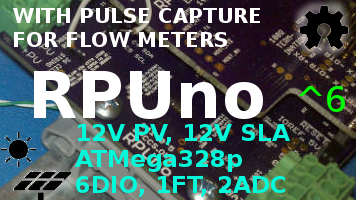
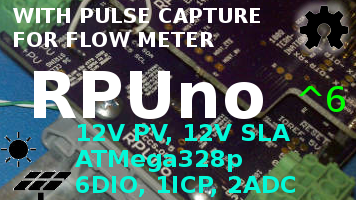
Hardware: use name icp rather than ft

Changed region(s): [[0.4944, 0.87, 0.8343, 0.99], [0.5871, 0.15, 0.6489, 0.24]]

diff --git a/readme.md b/readme.md
@@ -4,7 +4,7 @@ From <https://github.com/epccs/RPUno/>
 
 ## Overview
 
-This no frills programmable Solar Controller board has an Arduino-style header and an easy to use ATmega328p microcontroller. The embedded LT3652 solar charge controller manages power storage for a remote bare metal control and data acquisition application.
+This no frills Solar Controller board is open hardware and programmable. It has an easy to use microcontroller and Arduino-style headers. The embedded LT3652 solar charge controller manages battery charging while the ATmega328p interfaces with it (see Hardware for more details).
 
 [Store](https://www.tindie.com/products/ron-sutherland/rpuno/)
 
@@ -16,7 +16,7 @@ This no frills programmable Solar Controller board has an Arduino-style header a
 
 ## Status
 
-![Status](https://raw.githubusercontent.com/epccs/RPUno/master/Hardware/status_icon.png "Status")
+![Status](./Hardware/status_icon.png "Status")
 
 ## [Hardware](./Hardware)
 
@@ -29,11 +29,11 @@ A serial bus that allows multiple microcontroller boards to be connected to a ho
 [RPUftdi]: https://github.com/epccs/RPUftdi
 [RPUadpt]: https://github.com/epccs/RPUadpt
 
-![MultiDrop](https://raw.githubusercontent.com/epccs/RPUno/master/Hardware/Documents/MultiDrop.png "RPUno MultiDrop")
+![MultiDrop](./Hardware/Documents/MultiDrop.png "RPUno MultiDrop")
 
 Why not use plain RS485? I want the host computer to use common serial programs (e.g. avrdude, PySerial, picocom...), and the microcontroller to work with common UART control libraries (e.g. Arduino Uno core). Modbus could be used on both the host and the bare metal side but does not have firmware update tools. RS-422 (with the transceivers automatically activated) work with the common UART libraries and host programs for RS-232 so bootloaders can work as expected and so do the other serial programs (e.g. picocom and PySerial). 
 
-I prefer a Command Line Interface (CLI), so that is what the examples use. The CLI is programmed to respond to commands terminated with a newline, so remember to press enter (which sends a newline) before starting a command. The command includes an address with a leading and trailing forward slash "/". The command echo starts after the address (second byte) is sent. The first byte will cause any transmitting device to stop and dump its outgoing buffer which should prevent collisions since the echo is delayed until after the second byte. 
+I prefer a Command Line Interface (CLI), so that is what the examples use. The CLI is programmed to respond to commands terminated with a newline, so remember to press enter (which sends a newline) before starting a command. The command includes an address with a leading and trailing forward slash "/". The command echo starts after the address (second byte) is sent. The first byte ('/') will cause any transmitting device to stop and dump its outgoing buffer which should prevent collisions since the echo is delayed until after the second byte. 
 
 As a short example, I'll connect with SSH (e.g. from a Pi) to the machine (an old x86 with Ubuntu) that has a USB connection to the [RPUftdi] board. These machines have matching usernames and keys placed so I don't need to use passwords. Then I will use picocom to interact with two different RPUno boards. They are on the serial bus at addresses '1' and '0' (note that ASCII '1' is 0x31, and ASCII '0' is 0x30, so they have an address that looks good on picocom but is probably not what was expected).  
 
@@ -86,15 +86,15 @@ At present, I'm using [I2Cdebug] to set the bus manager on the [RPUftdi] shield,
 The core files for this board are in the /lib folder. Each example has its files and a Makefile in its own folder. The toolchain packages that I use are available on Ubuntu and Raspbian. 
 
 ```
-sudo apt-get install git [gcc-avr] [binutils-avr] [gdb-avr] [avr-libc] [avrdude]
+sudo apt-get install git gcc-avr binutils-avr gdb-avr avr-libc avrdude
 git clone https://github.com/epccs/RPUno
 ```
 
-[gcc-avr]: http://packages.ubuntu.com/search?keywords=gcc-avr
-[binutils-avr]: http://packages.ubuntu.com/search?keywords=binutils-avr
-[gdb-avr]: http://packages.ubuntu.com/search?keywords=gdb-avr
-[avr-libc]: http://packages.ubuntu.com/search?keywords=avr-libc
-[avrdude]: http://packages.ubuntu.com/search?keywords=avrdude
+* [gcc-avr](http://packages.ubuntu.com/search?keywords=gcc-avr)
+* [binutils-avr](http://packages.ubuntu.com/search?keywords=binutils-avr)
+* [gdb-avr](http://packages.ubuntu.com/search?keywords=gdb-avr)
+* [avr-libc](http://packages.ubuntu.com/search?keywords=avr-libc)
+* [avrdude](http://packages.ubuntu.com/search?keywords=avrdude)
 
 I am not a software developer (more of a hardware type), I started with the Arduino IDE and an Uno board and found it easy to do cool stuff, unfortunately, when I tried to do my own board it was more pain than gain. I noticed Elliot Williams articles on "Makefile Madness" on Hack-a-day, and that was sort of a turning point. 
 

diff --git a/Hardware/Testing/readme.md b/Hardware/Testing/readme.md
@@ -24,13 +24,13 @@ This is a list of Test preformed on each RPUno after assembly.
 
 ## Basics
 
-These tests are for an assembled RPUno board 14140^5 which may be referred to as a Unit Under Test (UUT). If the UUT fails and can be reworked then do so, otherwise it needs to be scraped. 
+These tests are for an assembled RPUno board 14140^6 which may be referred to as a Unit Under Test (UUT). If the UUT fails and can be reworked then do so, otherwise it needs to be scraped. 
 
 **Warning: never use a soldering iron to rework ceramic capacitors due to the thermal shock.**
     
 Items used for test.
 
-![ItemsUsedForTest](https://raw.githubusercontent.com/epccs/RPUno/master/Hardware/Testing/14140,ItemsUsedForTest.jpg "RPUno Items Used For Test")
+![ItemsUsedForTest](./14140,ItemsUsedForTest.jpg "RPUno Items Used For Test")
 
 
 ## Assembly check
@@ -149,8 +149,8 @@ Connect 100 kOhm resistor to both the PV side and BAT side thermistor inputs to 
     
 ```
 { "22MA_A0":[20.7,21.6,21.9,21.9,],
-  "22MA_A1":[21.1,21.8,22.4,22.2.],
-  "17MA_PL":[18.6,18.4,18.5,18.4],
+  "22MA_A1":[21.1,21.8,22.4,22.2,],
+  "17MA_PL":[18.6,18.4,18.5,18.4,],
   "10MA_PL":[10.2,10.0,10.3,10.2,],
   "22MA_IO":[21.7,22.0,22.1,22.1,]}
 ```
